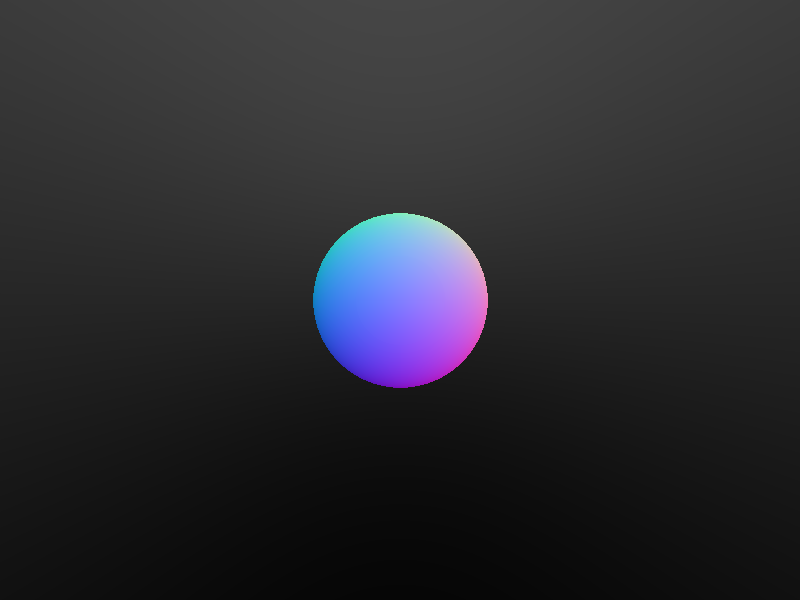
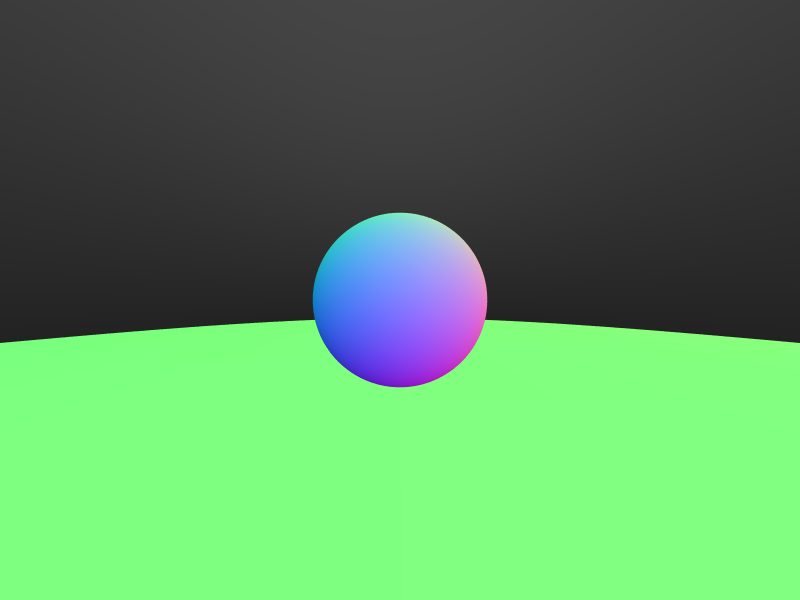
pull out basic camera interface, add antialiasing

diff --git a/Raytracer/Main.cpp b/Raytracer/Main.cpp
@@ -1,5 +1,6 @@
 #include <iostream>
 #include <vector>
+#include <random>
 
 #include <glm\glm.hpp>
 
@@ -8,19 +9,20 @@
 #include "Ray.h"
 #include "Scene.h"
 #include "Sphere.h"
+#include "Camera.h"
 
 glm::vec3 getColorFromRay(const Scene& scene, const Ray& ray) {
     using namespace glm;
 
     auto hit = scene.getHitInfo(ray);
     
-    if(hit != nullptr) {
-        return 0.5f * (hit->getNormal() + vec3(1));
+    if (hit == nullptr) {
+        auto direction = normalize(ray.getDirection());
+        auto t = 0.5f * (direction.y + 1.f);
+        return (1.f - t) * vec3(0) + t * vec3(0.3f);
     }
-    //return a gradient from blue to white
-    auto direction = normalize(ray.getDirection());
-    auto t = 0.5f * (direction.y + 1.f);
-    return (1.f - t) * vec3(0) + t * vec3(0.3f);
+    
+    return 0.5f * (hit->getNormal() + vec3(1));
 }
 
 int main(int argc, char **argv) {
@@ -28,30 +30,31 @@ int main(int argc, char **argv) {
     using namespace glm;
 
     Image testImage(800, 600, 4);
+    auto samples = 100;
 
     Scene scene;
     scene.addObject(make_unique<Sphere>(Sphere(vec3(0, 0, -1), 0.4f)));
     scene.addObject(make_unique<Sphere>(Sphere(vec3(0, -100.5f, -1), 100)));
 
-    vec3 origin(0);
-    vec3 target(0, 0, -1.f);
+    Camera camera(vec3(0));
 
-    vec3 horizontal(4.f, 0, 0);
-    vec3 vertical(0, -3.f, 0);
+    default_random_engine gen;
+    uniform_real_distribution<float> dist(0.f, 1.f);
 
     for (auto y = 0; y < testImage.getHeight(); ++y) {
         for (auto x = 0; x < testImage.getWidth(); ++x) {
+            vec3 color(0);
 
-            auto horizontalFactor = static_cast<float>(x) / static_cast<float>(testImage.getWidth());
-            auto verticalFactor = static_cast<float>(y) / static_cast<float>(testImage.getHeight());
+            for (auto s = 0; s < samples; ++s) {
+                auto horizontalFactor = (static_cast<float>(x) + dist(gen)) / static_cast<float>(testImage.getWidth());
+                auto verticalFactor = (static_cast<float>(y) + dist(gen)) / static_cast<float>(testImage.getHeight());
 
-            vec3 direction = target +
-                horizontal * horizontalFactor - horizontal * 0.5f +
-                vertical * verticalFactor - vertical * 0.5f;
+                auto ray = camera.getRay(horizontalFactor, verticalFactor);
 
-            Ray ray(origin, direction);
+                color += getColorFromRay(scene, ray);
 
-            auto color = getColorFromRay(scene, ray);
+            }
+            color /= static_cast<float>(samples);
 
             testImage.setPixel(x, y, Color32(color.r, color.g, color.b, 1.0f));
 

diff --git a/Raytracer/Camera.cpp b/Raytracer/Camera.cpp
@@ -1,0 +1,18 @@
+#include "Camera.h"
+
+Camera::Camera(const glm::vec3 & position) : position(position) {
+    center = position + glm::vec3(0, 0, -1);
+    horizontal = glm::vec3(4.f, 0, 0);
+    vertical = glm::vec3(0, -3.f, 0);
+}
+
+Ray Camera::getRay(const float u, const float v) const
+{
+    using namespace glm;
+
+    vec3 direction = center +
+        horizontal * u - horizontal * 0.5f +
+        vertical * v - vertical * 0.5f;
+
+    return Ray(position, direction);
+}

diff --git a/Raytracer/Camera.h b/Raytracer/Camera.h
@@ -1,0 +1,18 @@
+#pragma once
+
+#include <glm\glm.hpp>
+#include "Ray.h"
+
+class Camera {
+
+    glm::vec3 position;
+    glm::vec3 center;
+    glm::vec3 horizontal;
+    glm::vec3 vertical;
+
+public:
+    //TODO fov, "look-at" function
+    Camera(const glm::vec3& position);
+
+    Ray getRay(const float u, const float v) const;
+};
